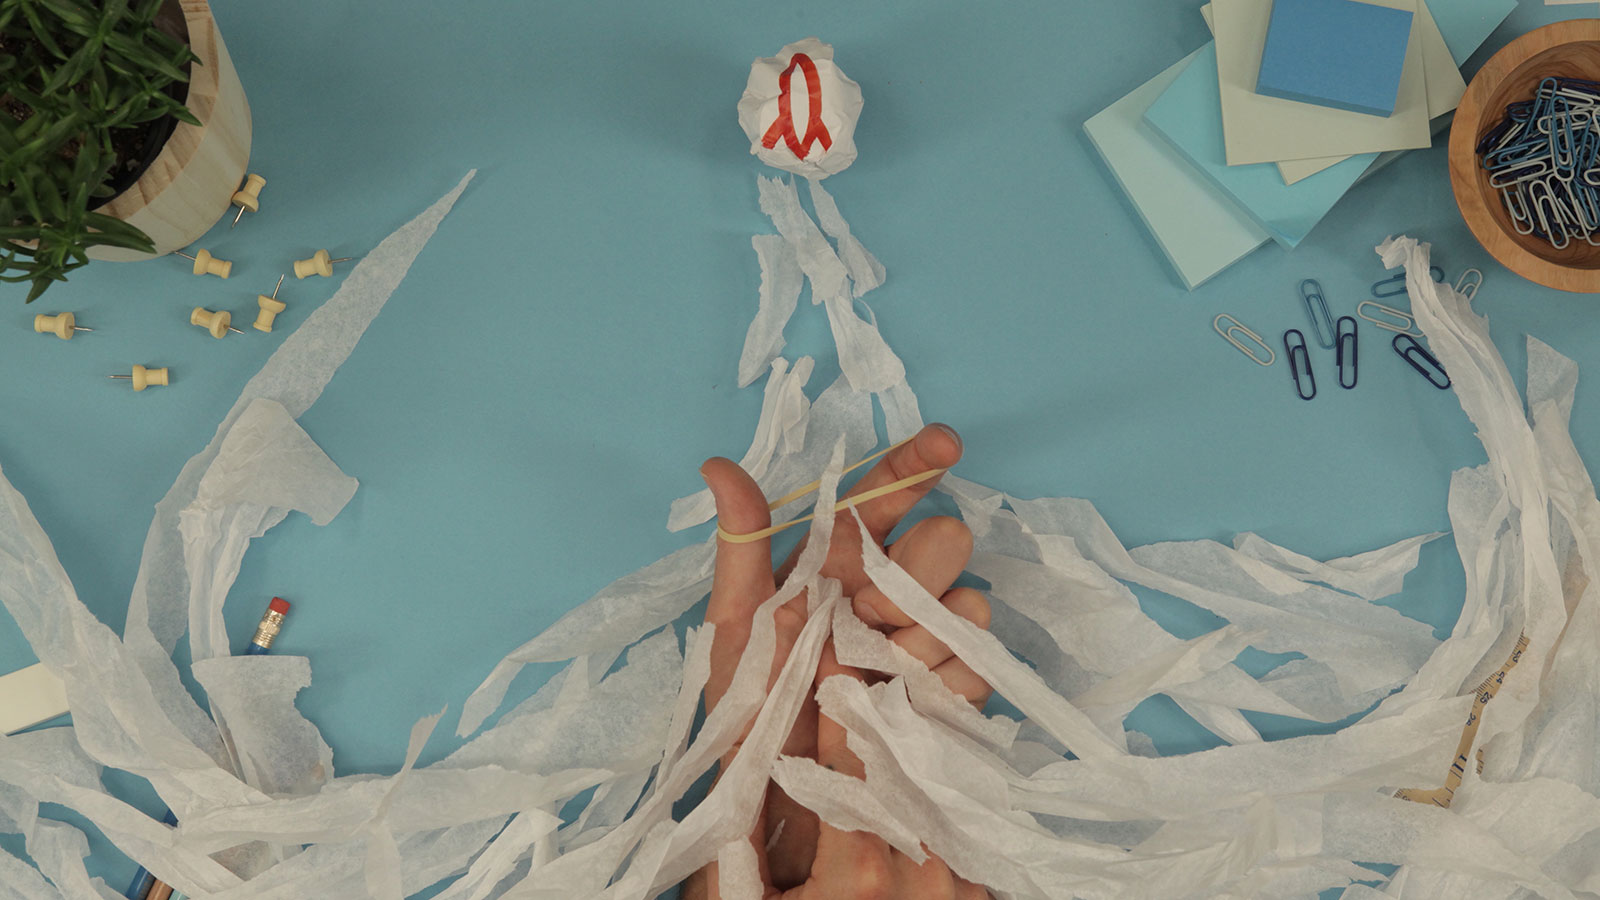
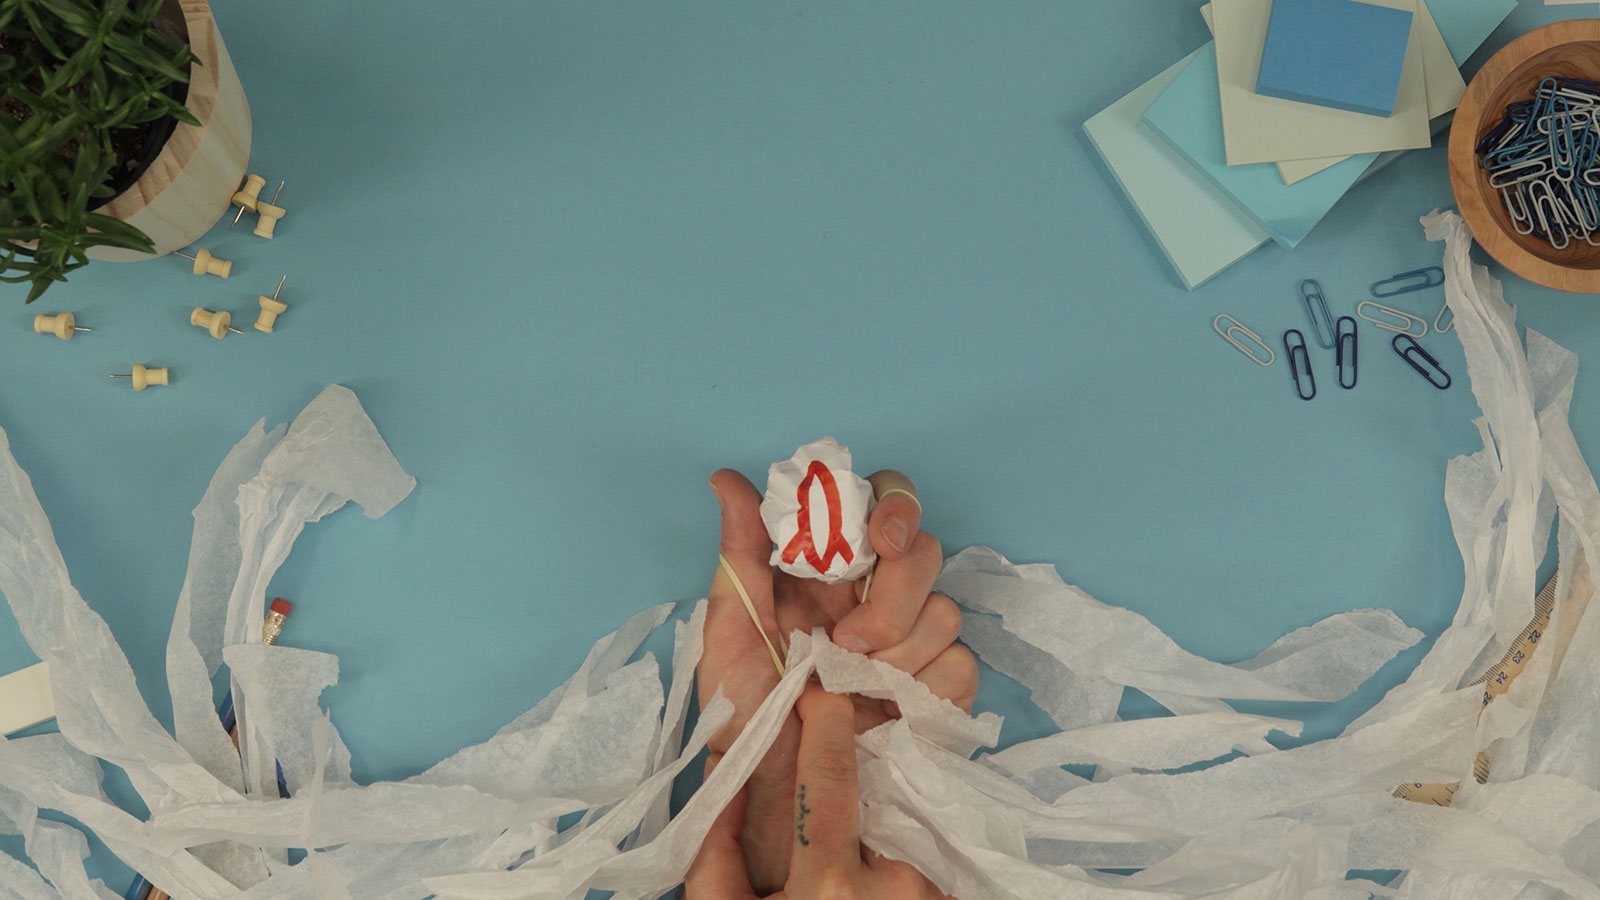
have different procession of gameplay vs win screens

diff --git a/public/moonshooter/index.js b/public/moonshooter/index.js
@@ -2,8 +2,8 @@
 
   // retain
   var powerLevel = 0;
-  var numGameFrames = 22;
-  var numWinFrames = 17;
+  var numGameFrames = 9;
+  var numWinFrames = 30;
 
   var volume = {
     left : 0,
